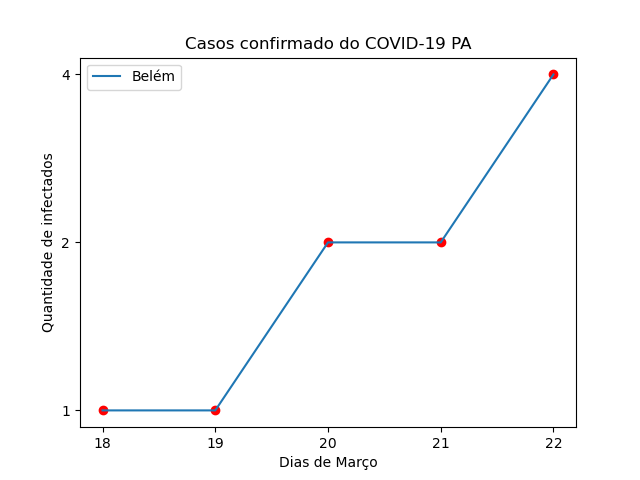
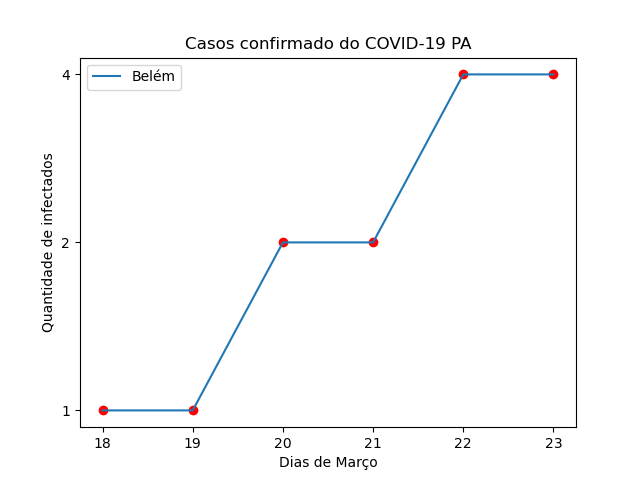
Grafico atualizado constantemente

diff --git a/Analise.py b/Analise.py
@@ -2,8 +2,8 @@
 
 import matplotlib.pyplot as plt
 
-x = ["18","19","20","21","22"]
-y = ["1","1","2","2","4"]
+x = ["18","19","20","21","22","23"]
+y = ["1","1","2","2","4","4"]
 
 ##Legendas do grafico
 titulo ="Casos confirmado do COVID-19 PA"
@@ -24,7 +24,10 @@ plt.ylabel(laby)
 ##Aplicando as legendas
 plt.legend()
 
+##Salvanod imagem
+plt.savefig("COVID-19.png")
+
 ##Montando o gráfico
 plt.show()
 
-plt.savefig("COVID-19.pdf")
+
